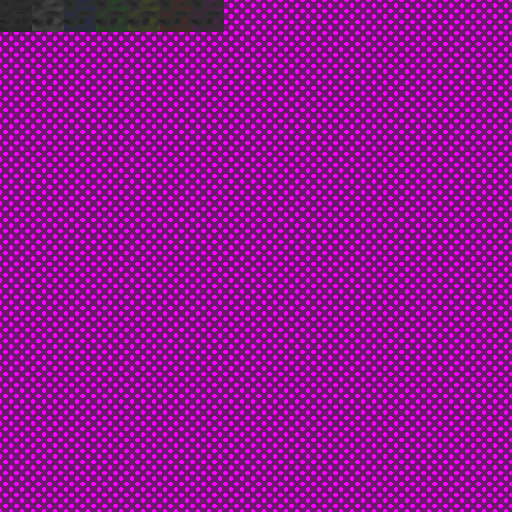
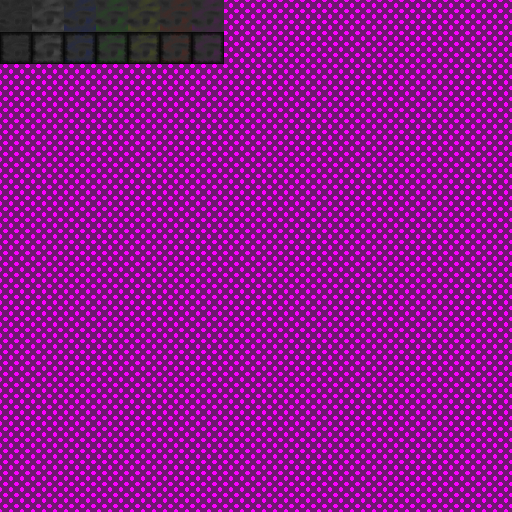
testing larger textures

Changed region(s): [[0.0, 0.0625, 0.4375, 0.125]]

diff --git a/src/chunk.rs b/src/chunk.rs
@@ -1,35 +1,40 @@
 use crate::*;
 use notan::random::rand::{ self, random };
 
-const TEXTURE_SIZE: u32 = 512;
+const TEXTURE_SIZE: u32 = 1024;
+const BLOCK_SIZE: u32 = 64;
 
 pub struct Chunk {
     coords: (usize, usize),
-    floor_tiles: Vec<u32>,
+    floor_tiles: Vec<u8>,
+    wall_tiles: Vec<u8>,
     render_texture: RenderTexture,
     low_res: RenderTexture,
-    level_of_detail: u32,
-    lod: u32,
+    level_of_detail: u8,
+    lod: u8,
     in_bounds: bool,
 }
 
-fn index_to_pos(i: usize, level_of_detail: u32) -> (f32, f32) {
+fn index_to_pos(i: usize, level_of_detail: u8) -> (f32, f32) {
     (
-        (((i % 16) * 32) / (level_of_detail as usize)) as f32,
-        (((i / 16) * 32) / (level_of_detail as usize)) as f32,
+        (((i % 16) * BLOCK_SIZE as usize) / (level_of_detail as usize)) as f32,
+        (((i / 16) * BLOCK_SIZE as usize) / (level_of_detail as usize)) as f32,
     )
 }
 
 impl Chunk {
     pub fn new(gfx: &mut Graphics, x: usize, y: usize) -> Self {
         let mut floor_tiles = Vec::with_capacity(16 * 16);
+        let mut wall_tiles = Vec::with_capacity(16 * 16);
         for i in 0..16 * 16 {
-            floor_tiles.push((random::<f32>() * 6.0) as u32);
+            floor_tiles.push((random::<f32>() * 6.0) as u8);
+            wall_tiles.push(((random::<f32>() * 22.0) as u8));
         }
         let mut render_texture = gfx.create_render_texture(64, 64).build().unwrap();
         Chunk {
             coords: (x, y),
             floor_tiles,
+            wall_tiles,
             low_res: render_texture.clone(),
             render_texture,
             level_of_detail: 3,
@@ -38,7 +43,7 @@ impl Chunk {
         }
     }
 
-    pub fn set_lod(&mut self, lod: u32) {
+    pub fn set_lod(&mut self, lod: u8) {
         self.level_of_detail = lod.clamp(0, 4);
     }
 
@@ -51,7 +56,7 @@ impl Chunk {
     }
 
     fn render_texture(&mut self, gfx: &mut Graphics, textures: &Vec<Texture>) -> RenderTexture {
-        let lod = (2_u32).pow(self.lod);
+        let lod = (2_u32).pow(self.lod as u32);
         let size = gfx.size();
         gfx.set_size(TEXTURE_SIZE / lod, TEXTURE_SIZE / lod);
         let mut texture = gfx
@@ -60,16 +65,21 @@ impl Chunk {
             .unwrap();
 
         let mut draw = gfx.create_draw();
+        for i in 0..256 {
+            let (x, y) = index_to_pos(i, lod as u8);
+            let b = match self.wall_tiles[i] {
+                x if x > 16 => { x }
+                _ => { self.floor_tiles[i] }
+            };
+            draw.image(&textures[0])
+                .position(x, y)
+                .size(BLOCK_SIZE as f32 / (lod as f32), BLOCK_SIZE as f32 / (lod as f32))
+                .crop((((b % 16) as f32) * BLOCK_SIZE as f32, (b / 16) as f32 * BLOCK_SIZE as f32), (BLOCK_SIZE as f32, BLOCK_SIZE as f32));
+        }
         self.floor_tiles
             .iter()
             .enumerate()
-            .for_each(|(i, b)| {
-                let (x, y) = index_to_pos(i, lod);
-                draw.image(&textures[0])
-                    .position(x, y)
-                    .size(32.0 / (lod as f32), 32.0 / (lod as f32))
-                    .crop((((*b % 16) as f32) * 32.0, (*b / 16) as f32), (32.0, 32.0));
-            });
+            .for_each(|(i, b)| {});
         gfx.render_to(&mut texture, &draw);
         gfx.set_size(size.0, size.1);
         texture

diff --git a/src/main.rs b/src/main.rs
@@ -51,7 +51,11 @@ fn setup(gfx: &mut Graphics) -> State {
     let font = gfx.create_font(include_bytes!("assets/Ubuntu-B.ttf")).unwrap();
     let mut textures = Vec::<Texture>::new();
     textures.push(
-        gfx.create_texture().from_image(include_bytes!("assets/atlas_test.png")).build().unwrap()
+        gfx
+            .create_texture()
+            .from_image(include_bytes!("assets/atlas_test_bigger.png"))
+            .build()
+            .unwrap()
     );
 
     let mut chunks = Vec::new();
@@ -100,7 +104,7 @@ fn update(app: &mut App, state: &mut State) {
             let lod = (
                 i32::max(((x as i32) - (cx as i32)).abs() - 1, ((y as i32) - (cy as i32)).abs()) - 1
             ).clamp(0, 7);
-            c.set_lod(lod as u32);
+            c.set_lod(lod as u8);
         });
     }
     state.fps = format!("{:.0} fps \nupdate time: {:.2}ms", app.timer.fps(), app.date_now() - time);
@@ -142,7 +146,9 @@ fn draw(app: &mut App, gfx: &mut Graphics, state: &mut State) {
     draw.clear(Color::BLACK);
     draw.set_projection(Some(world_projection(gfx.size(), state.render_size_pow).0));
     draw.transform().set(
-        Mat3::from_translation(Vec2::new(-state.player.pos().x(), -state.player.pos().y()))
+        Mat3::from_translation(
+            Vec2::new(-state.player.pos().x(), -state.player.pos().y())
+        )
     );
 
     let (x1, y1) = Chunk::pos_to_coords(draw.screen_to_world_position(0.0, 0.0));

diff --git a/src/player.rs b/src/player.rs
@@ -103,7 +103,7 @@ impl Player {
         if app.keyboard.is_down(KeyCode::D) {
             pos.x += 0.75;
         }
-        pos * 25.0
+        pos
     }
 }
 
